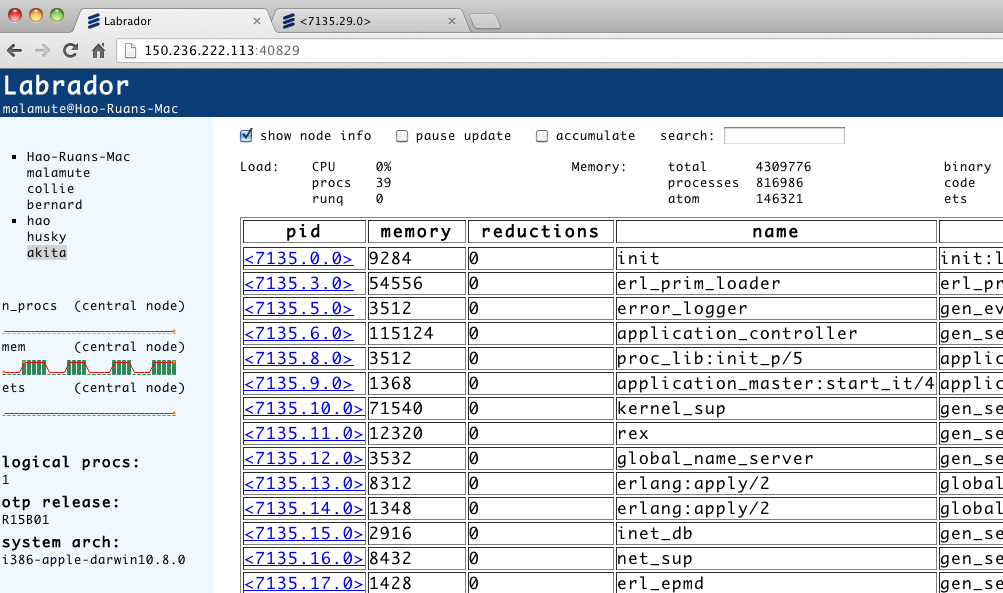
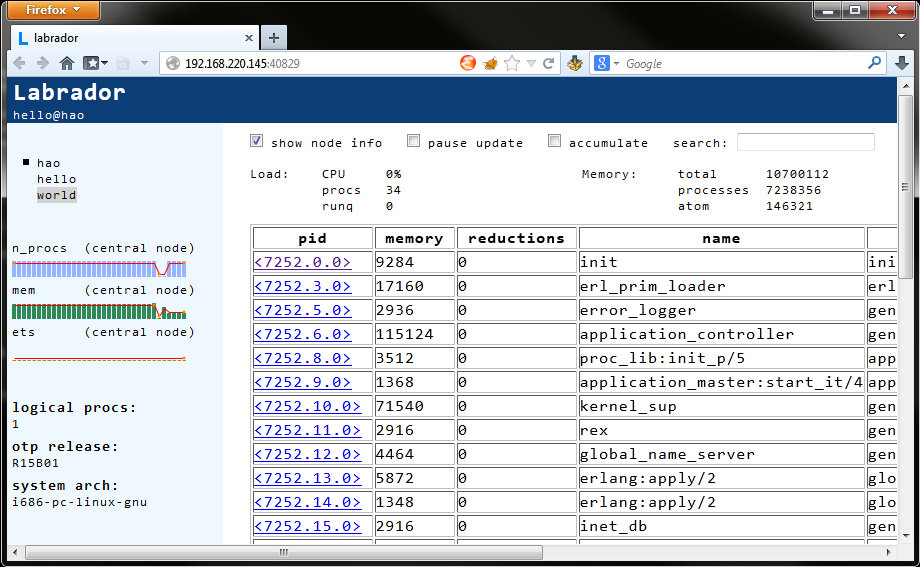
v2.2.0

diff --git a/priv/html/index.html b/priv/html/index.html
@@ -1,6 +1,6 @@
 <html>
 <head>
-    <title>Labrador</title>
+    <title>labrador</title>
     <link rel="shortcut icon" href="/static/img/favicon.ico" type="image/x-icon"/>
     <link rel="stylesheet" type="text/css" href="/static/css/labrador.css"/>
     <!--<script src="/static/js/jquery-1.9.1.js"></script>-->

diff --git a/README.md b/README.md
@@ -1,78 +1,44 @@
-Labrador
+labrador
 ========
 
 Overview
 --------
 Labrador is a web based Erlang process monitor.
-Labrador takes advantage of [Bigwig], but also offers surprises: 
 
   - Simplify the framework and web interface
-  - Support [Cowboy] 0.8.x
+  - Support [Cowboy] 0.8.x (i will update it to support latest version soon)
   - Support Erlang cluster monitoring
   - Supervise memory and CPU utilization for EVM
 
 Get Started
 -----------
-###Establish Erlang cluster
-You can setup several Erlang nodes on different hosts **using the same cookie**. For example (note: malamute is the *central_node*):
->     ## On host Hao-Ruans-Mac
->     haoruan@Hao-Ruans-Mac:~% erl -sname malamute -setcookie labrador
->     haoruan@Hao-Ruans-Mac:~% erl -sname collie   -setcookie labrador
->     haoruan@Hao-Ruans-Mac:~% erl -sname bernard  -setcookie labrador
->     ## On host hao
->     root@hao:~# erl -sname husky -setcookie labrador
->     root@hao:~# erl -sname akita -setcookie labrador
-
-###Connect nodes
-For each node other than the central node, do:
->     net_kernel:connect_node('malamute@Hao-Ruans-Mac').
-
 ###Download Labrador
 [rebar] is required to build the project:
->     haoruan@Hao-Ruans-Mac:~% git clone git@github.com:ruanhao/labrador.git
->     haoruan@Hao-Ruans-Mac:~% cd labrador
->     haoruan@Hao-Ruans-Mac:labrador% rebar get-deps
->     haoruan@Hao-Ruans-Mac:labrador% rebar compile
+>     ~% git clone git@github.com:ruanhao/labrador.git
+>     ~% cd labrador
+>     ~/labrador% rebar get-deps
+Notice: if you see something like:  
+ERROR: git clone -n git://github.com/extend/ranch.git ranch failed with error: 128  
+please manually update the entry in deps/cowboy/rebar.config as:  
+{ranch, ".*", {git, "git@github.com:extend/ranch.git", {tag, "0.6.1"}}}.  
 
 ###Configure labrador.config
-The most important entry is **central_node**, and you can have others untouched. Here, we set:
->     {central_node, 'malamute@Hao-Ruans-Mac'}.
+you have to specify the `central_node`. Here, we set:
+>     {central_node, 'hello@hao'}.
 
 ###Start Labrador
->     haoruan@Hao-Ruans-Mac:labrador% ./bootstrap
->     Erlang R15B01 (erts-5.9.1) [source] [async-threads:0] [hipe] [kernel-poll:false]
->     
->     Eshell V5.9.1  (abort with ^G)
->     (labrador@Hao-Ruans-Mac)1> 
->     =INFO REPORT==== 16-May-2013::12:39:36 ===
->     starting labrador ...  
->     Connecting to central node  malamute@Hao-Ruans-Mac   ==========> ok
->     Connecting to node          collie@Hao-Ruans-Mac     ==========> ok
->     Connecting to node          bernard@Hao-Ruans-Mac    ==========> ok
->     Connecting to node          husky@hao                ==========> ok
->     Connecting to node          akita@hao                ==========> ok
->     All nodes connected  
->     Seting net tick time to     60                       ==========> ok
->     =INFO REPORT==== 16-May-2013::12:39:36 ===
->     labrador is rocking on: Hao-Ruans-Mac, please visit http://150.236.222.113:40829/
+Notice: you have to confirm that the **cookie** you set in *bootstrap* is **the same as** Erlang cluster.  
+run `./bootstrap` under git root and wait to see message like:  
+labrador is rocking on: hao.shanghai, please visit http://hao.shanghai:40829/.
 
 ###Enjoy Labrador in navigator
-####Index
 ![homepage][1]
-####Process_info
 ![process_info][2]
 
 Note
 ----
-You'd better use navigator that is Websocket supported.  
-It is ok to use [Chrome] and [FireFox].
-
-Coming Soon
------------
-  * Interface optimization
-  * Support logging file
-  * Support tracing function
-  * And so on
+You'd better use navigator that supports Websocket.
+[Chrome] and [FireFox] are fine.
 
 Acknowledgement
 ---------------
@@ -80,7 +46,7 @@ Acknowledgement
 
 Do you like Labrador
 --------------------
-If you appreciate Labrador, how about a cup of coffee?  
+If you appreciate Labrador, how about a cup of coffee?
 [![Donate]](http://goo.gl/6zcOL)
 
 
